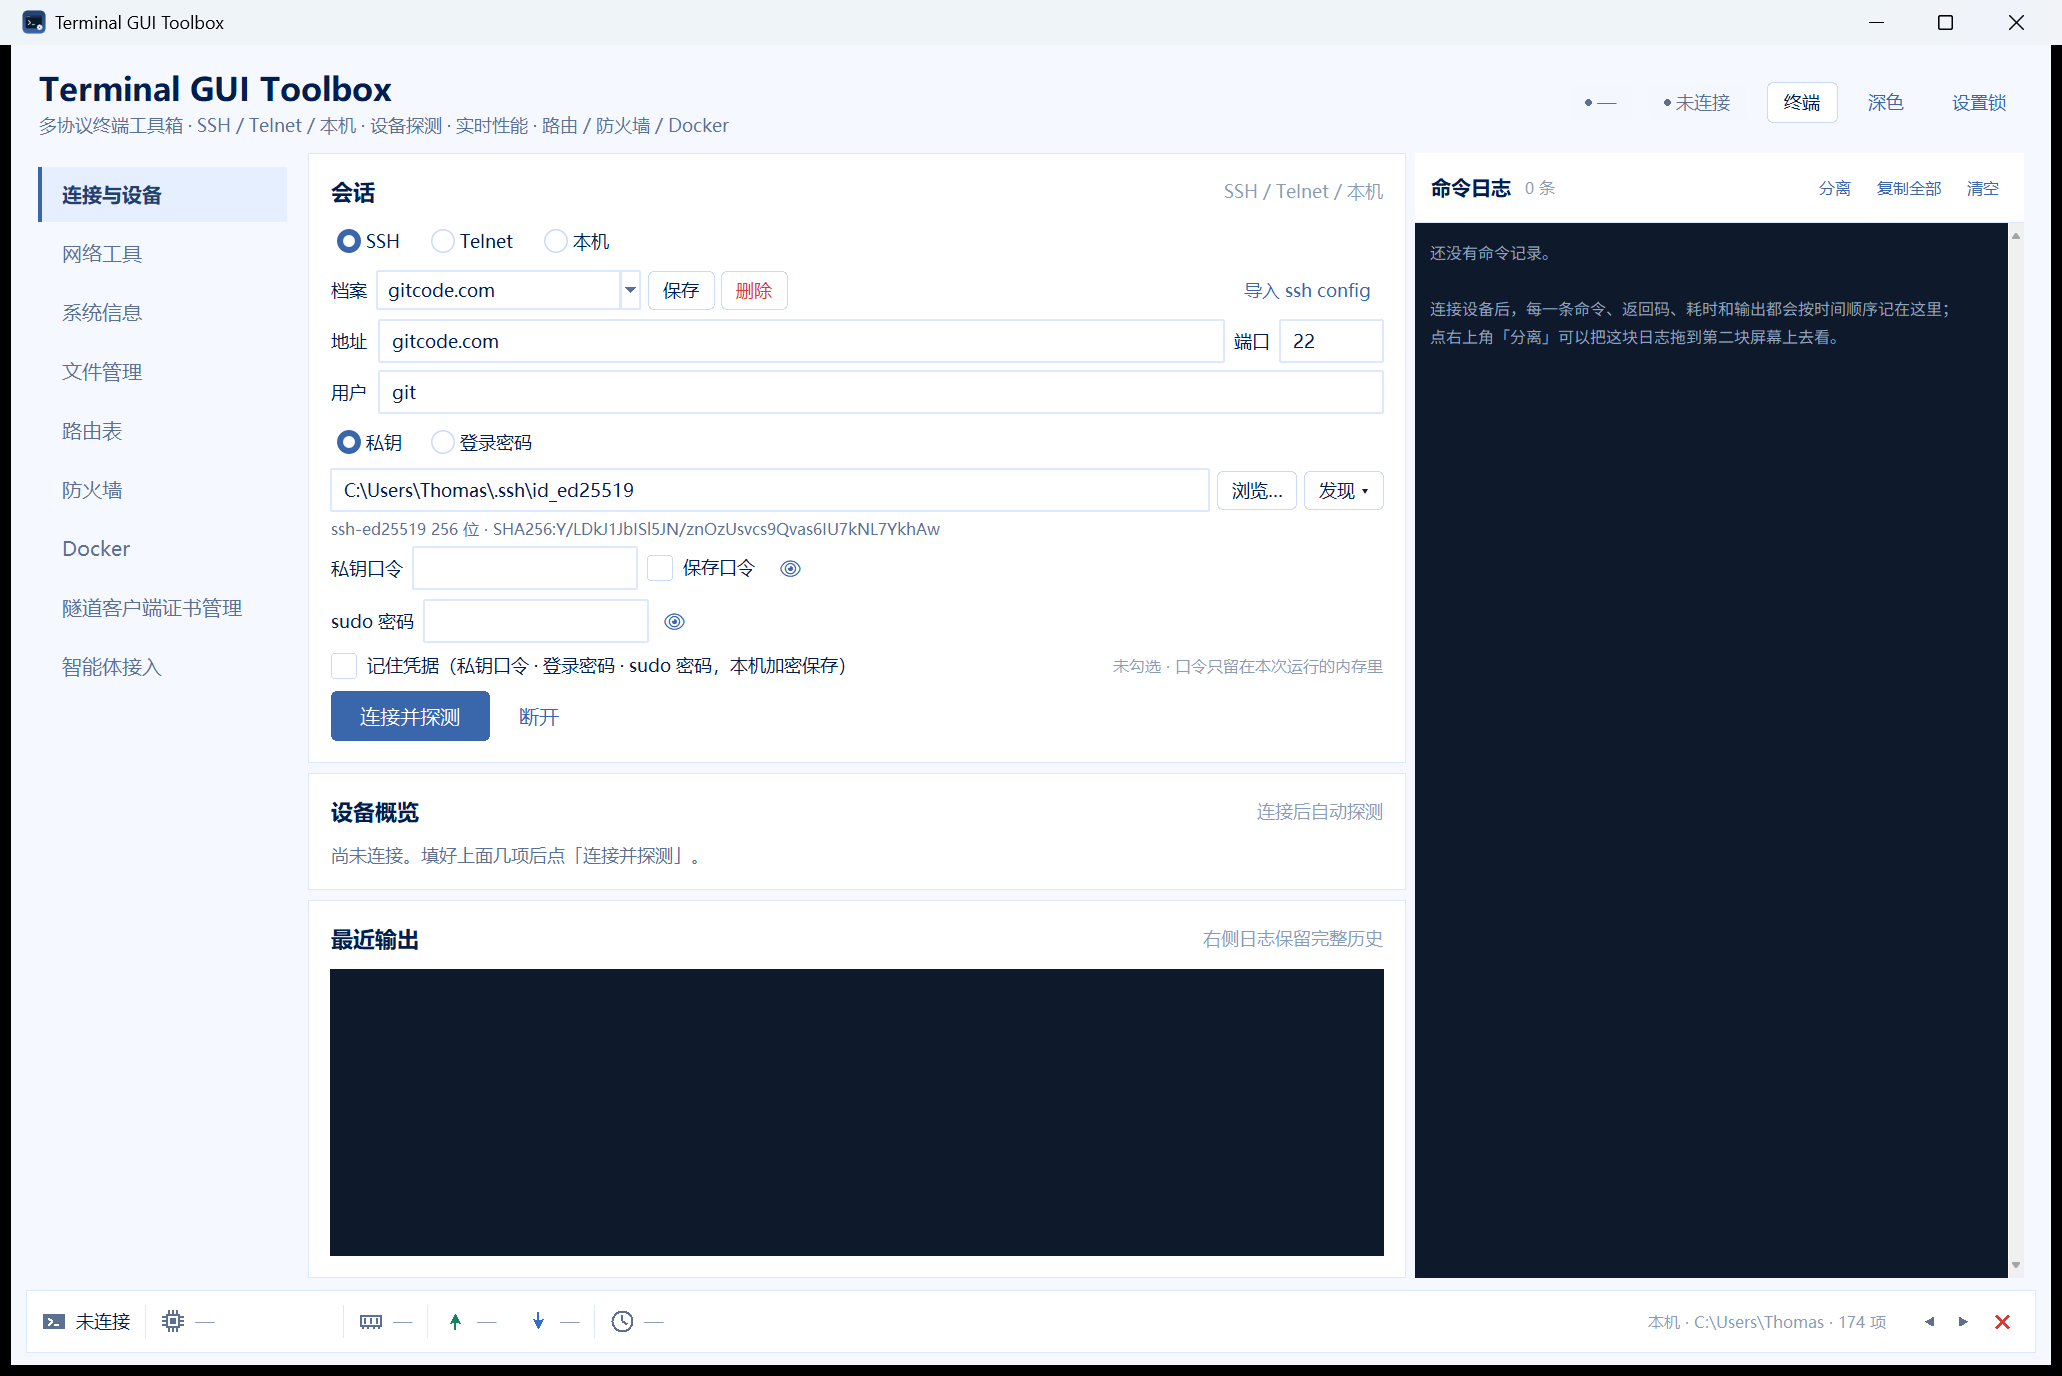
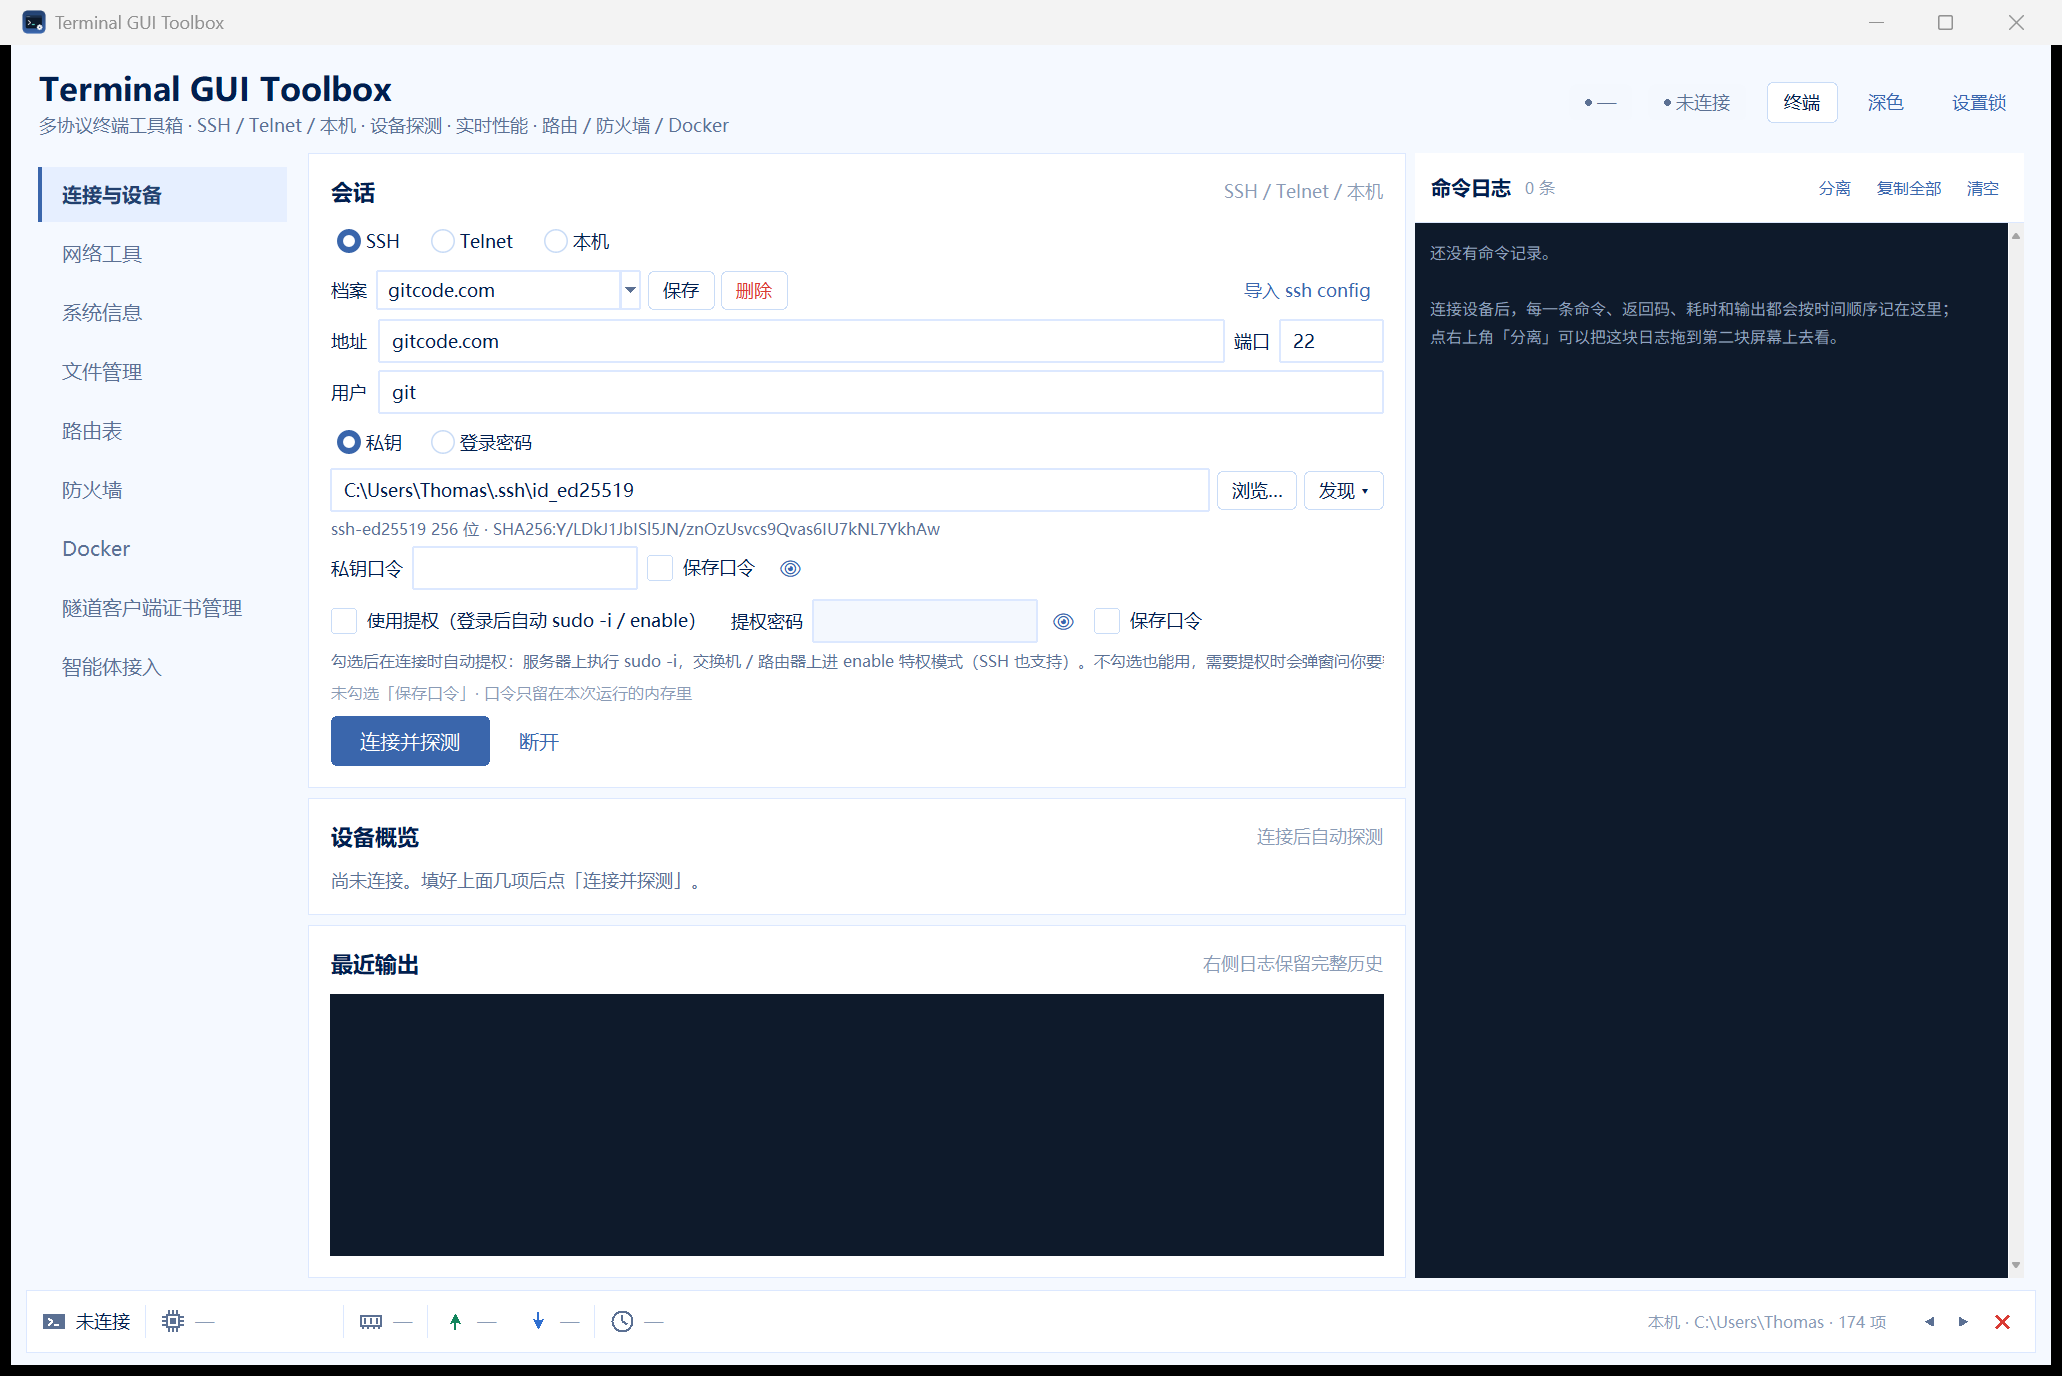
打包页「导出平台」只保留平台名，不再写客户端品牌
- PLATFORMS 的 label 从「Windows · OpenVPN GUI / OpenVPN Connect」这类
  带客户端品牌的长文案，收敛成 Windows / Android / iOS / iPadOS /
  鸿蒙 / 卓易通 / Linux / macOS
- 各平台该用哪个客户端，本来就在该平台配置文件的注释里逐条写明，界面上重复一遍没意义
- 文案短了，复选框从两列改三列、两行排平（vpncert_gui 导出平台卡片）
- 影响面：界面复选框 + zip 包 README.txt 里的文件清单与分节标题，都随之变短

Changed region(s): [[0.1552, 0.4375, 0.6828, 0.75], [0.6208, 0.5625, 0.6828, 0.625]]

diff --git a/pkilib.py b/pkilib.py
@@ -453,7 +453,7 @@ PLATFORM_ORDER = ["windows", "android", "ios", "harmony", "linux", "macos"]
 
 PLATFORMS: dict[str, dict] = {
     "windows": {
-        "label": "Windows · OpenVPN GUI / OpenVPN Connect",
+        "label": "Windows",
         "notes": [
             "# ===== Windows 端 =====",
             "# 推荐客户端：OpenVPN GUI 或 OpenVPN Connect（openvpn.net 下载）",
@@ -473,7 +473,7 @@ PLATFORMS: dict[str, dict] = {
         ],
     },
     "android": {
-        "label": "Android · OpenVPN Connect / OpenVPN for Android",
+        "label": "Android",
         "notes": [
             "# ===== Android 端 =====",
             "# 推荐客户端：OpenVPN Connect（应用商店搜索）",
@@ -487,7 +487,7 @@ PLATFORMS: dict[str, dict] = {
         ],
     },
     "ios": {
-        "label": "iOS / iPadOS · OpenVPN Connect",
+        "label": "iOS / iPadOS",
         "notes": [
             "# ===== iOS / iPadOS 端 =====",
             "# 推荐客户端：OpenVPN Connect（App Store）",
@@ -502,7 +502,7 @@ PLATFORMS: dict[str, dict] = {
         ],
     },
     "harmony": {
-        "label": "鸿蒙 / 卓易通 · 安卓兼容层",
+        "label": "鸿蒙 / 卓易通",
         "notes": [
             "# ===== 鸿蒙 / 卓易通 =====",
             "# 鸿蒙 NEXT 通过「卓易通」运行安卓应用，因此使用安卓版客户端：OpenVPN Connect",
@@ -518,7 +518,7 @@ PLATFORMS: dict[str, dict] = {
         ],
     },
     "linux": {
-        "label": "Linux · openvpn CLI / NetworkManager",
+        "label": "Linux",
         "notes": [
             "# ===== Linux 端 =====",
             "# 客户端：命令行 openvpn，或桌面 NetworkManager（导入配置文件即可）",
@@ -540,7 +540,7 @@ PLATFORMS: dict[str, dict] = {
         ],
     },
     "macos": {
-        "label": "macOS · Tunnelblick / OpenVPN Connect",
+        "label": "macOS",
         "notes": [
             "# ===== macOS 端 =====",
             "# 推荐客户端：Tunnelblick（免费开源）或 OpenVPN Connect",

diff --git a/vpncert_gui.py b/vpncert_gui.py
@@ -1196,13 +1196,13 @@ class App(tk.Frame):
         pl.grid(row=1, column=0, sticky="we", pady=(10, 0))
         b = pl.body
         self.plat_vars: dict[str, tk.BooleanVar] = {}
-        # 平台名后面跟了客户端建议（用「·」分隔，不加括号），单条最长 40 多字符，
-        # 三列放不下会把 iOS / macOS 顶出可视区域，所以按两列排。
+        # 复选框只写平台名（各平台用哪个客户端写在该平台配置文件的注释里），
+        # 名字短了，三列两行刚好排平，不用再挤成两列。
         for i, key in enumerate(PLATFORM_ORDER):
             v = tk.BooleanVar(value=True)
             self.plat_vars[key] = v
             U.Check(b, PLATFORMS[key]["label"], v).grid(
-                row=i // 2, column=i % 2, sticky="w", padx=(0, 30), pady=2)
+                row=i // 3, column=i % 3, sticky="w", padx=(0, 40), pady=2)
 
         mid = U.wframe(pg, "page")
         mid.grid(row=2, column=0, sticky="nsew", pady=(10, 0))
